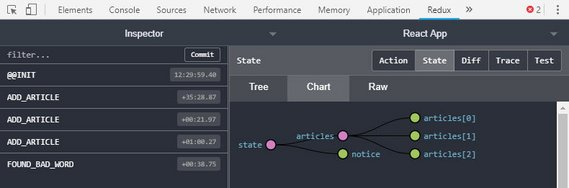
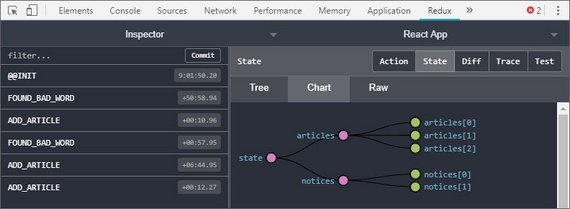
r5d6: React Redux Tutorial Pt 3

Changed region(s): [[0.0, 0.0, 1.0, 1.0], [0.2091, 0.133, 0.2988, 0.2128], [0.4482, 0.1596, 0.5079, 0.1862]]

diff --git a/docs/log5.md b/docs/log5.md
@@ -34,6 +34,50 @@ This is part of Alexander Kallaway's [100DaysOfCode](https://github.com/Kallaway
 
 ---
 
+## 6. React Redux Tutorial Pt 3
+### Day 6: March 4, 2019 - Monday
+
+**Project:** [Udacity React Nanodegree Program](https://www.udacity.com/course/react-nanodegree--nd019)
+
+[![Redux](assets/images/day6-small.jpg)](assets/images/day6.jpg)<br>
+**Live Demo:** [React Redux Middleware](https://codesandbox.io/s/0oj8rqmo70?fontsize=14) on CodeSandbox
+
+**Progress:** Continued Udacity Redux lesson for my React Nanodegree Program.
+
+Today I went through the third part of a tutorial called
+
+- *[React Redux Tutorial for Beginners: The Definitive Guide (2019)](https://www.valentinog.com/blog/redux/)*
+
+This focused on introducing Redux middleware in order to provide logic to our dispatched actions. It provides the following benefits.
+
+- the logic can live outside React (or any other library/framework)
+- middlewares become reusable pieces of logic, easily to reason about
+- middlewares can be tested in isolation
+- we keep the components clean
+
+In this example I intercept an ADD_ARTICLE action after dispatch and check for the presence of unwanted words.
+
+[![Redux](assets/images/day6c-small.jpg)](assets/images/day6c.jpg)
+
+If a forbidden word (such as 'money') was found then the FOUND_BAD_WORD action was dispatched instead. It was then handled by our reducer.
+
+Testing out the logic filters out entries with unwanted words.
+
+[![Redux](assets/images/day6b-small.jpg)](assets/images/day6b.jpg)
+
+Our state is displayed using Redux DevTools.
+
+[![Redux](assets/images/day6a-small.jpg)](assets/images/day6a.jpg)
+
+**Links:**
+- Live Demo - [React Redux Middleware](https://codesandbox.io/s/0oj8rqmo70?fontsize=14) on CodeSandbox
+- GitHub Repo - [react-redux-middleware](https://github.com/james-priest/react-redux-middleware)
+- Tutorial - [React Redux Tutorial for Beginners: The Definitive Guide (2019)](https://www.valentinog.com/blog/redux/)
+- Course notes - [Udacity React & Redux](https://james-priest.github.io/udacity-nanodegree-react/course-notes/react-redux.html#react--redux)
+- Link to [Udacity React Nanodegree Program](https://www.udacity.com/course/react-nanodegree--nd019)
+
+---
+
 ## 5. React Redux Tutorial Pt 2
 ### Day 5: March 3, 2019 - Sunday
 
